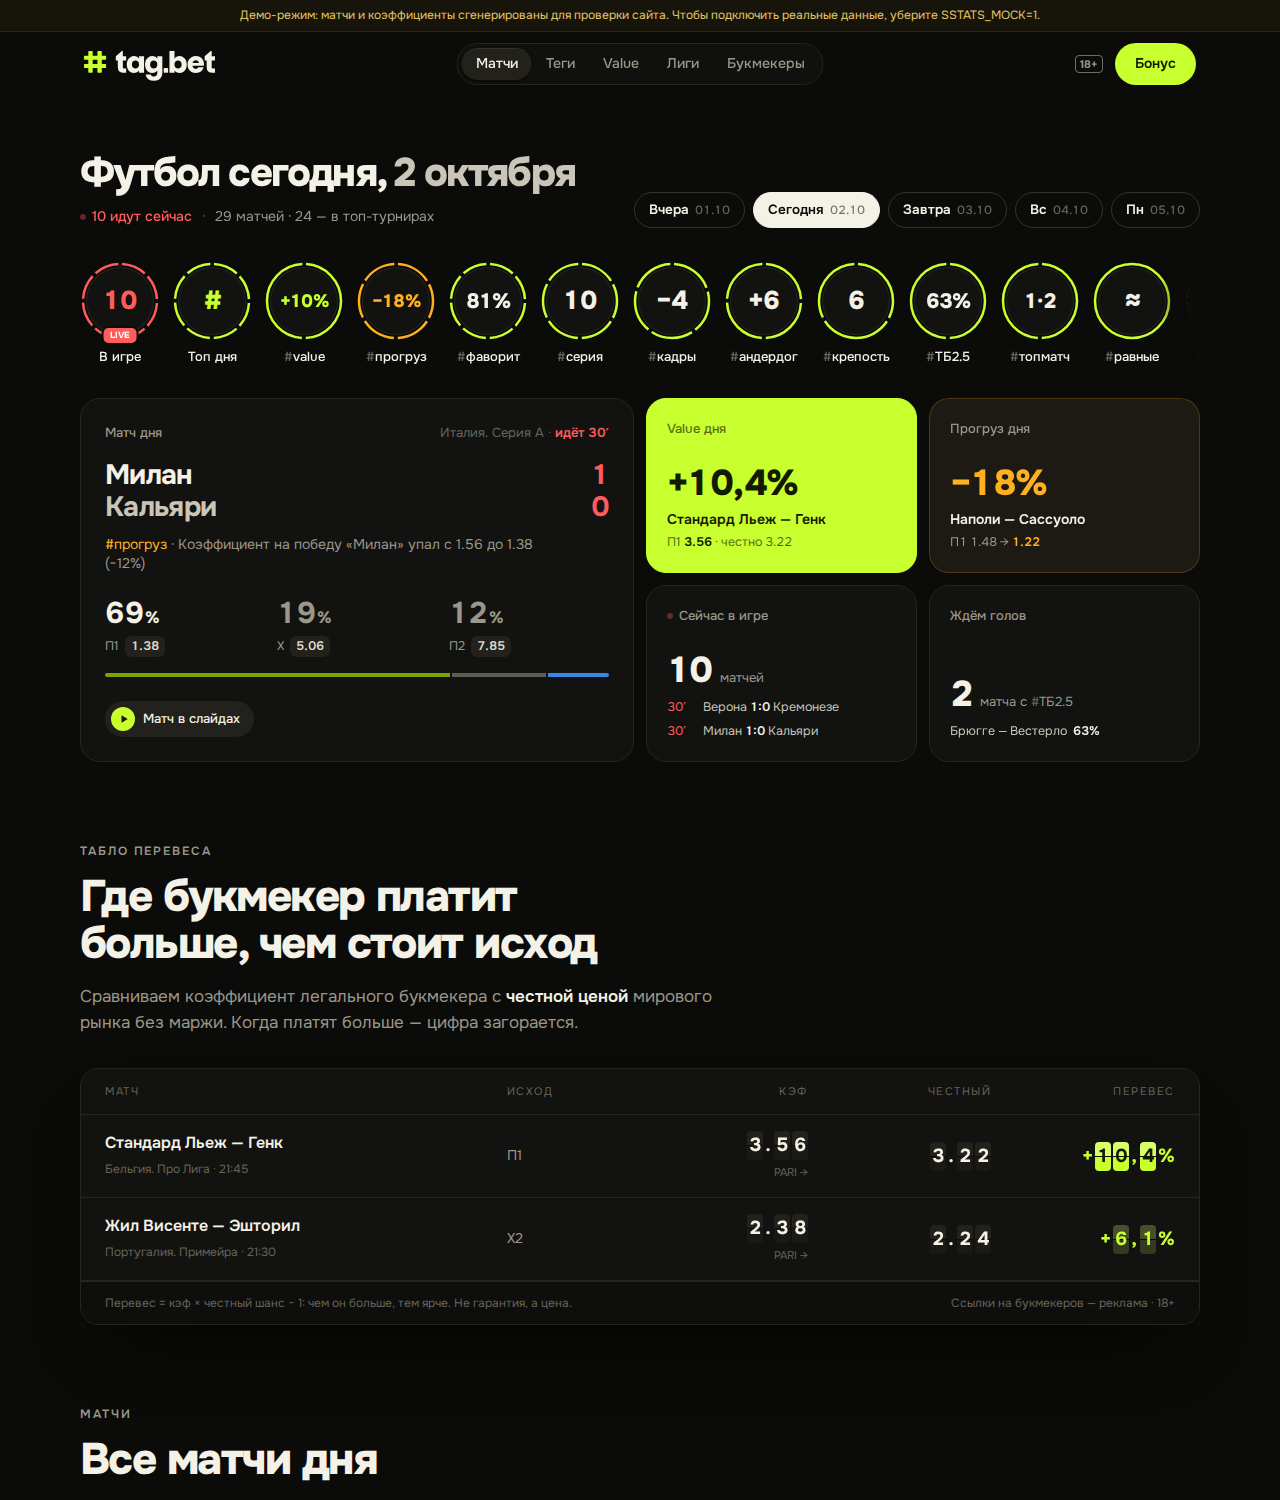
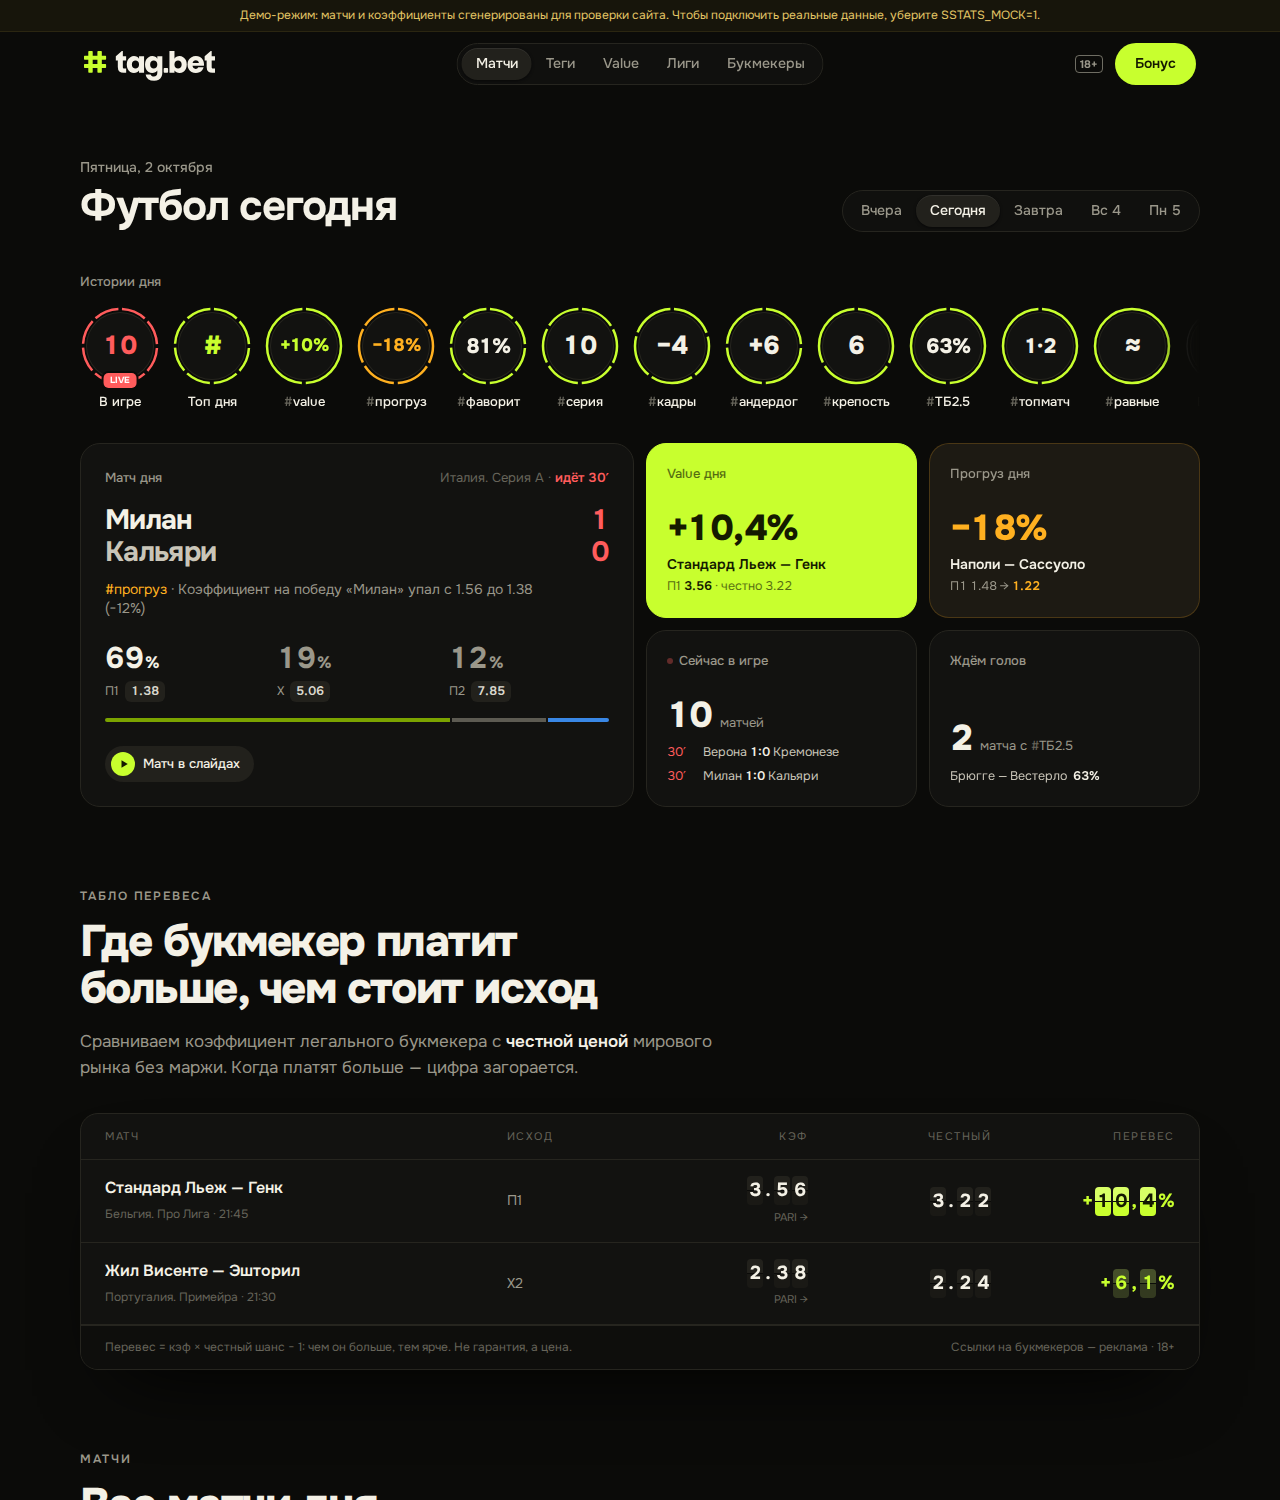
Первый экран в одном стиле: заголовок, дни-капсула, истории
- Заголовок одним цветом и без сжатых букв: «Футбол сегодня», над ним
  мелко «Пятница, 2 октября» (дата есть и в h1 — для поисковиков).
- Убрана строка «N идут сейчас · 29 матчей…» — эти цифры уже в виджетах.
- Дни — капсула в стиле меню («Вчера · Сегодня · Завтра · Вс 4»), в одну
  линию с заголовком; выбранный день чуть светлее, без белой заливки.
- Истории: подпись «Истории дня»; у просмотренных сереет только кольцо,
  цифра остаётся яркой; «Все теги» — тонкое кольцо без пунктира.

Claude-Session: https://claude.ai/code/session_01LqCxNKeCAKNwhNzoBsjYvY

diff --git a/components/DayView.tsx b/components/DayView.tsx
@@ -1,7 +1,7 @@
 import Link from 'next/link'
 import { countryRank, featuredRank } from '@/config/leagues'
 import { getMatchesByDate, tagsFor, type FeedItem } from '@/lib/data'
-import { diffDays, formatDayMonth, formatWeekdayLong, plural, pluralN, ymdToNoonTs } from '@/lib/format'
+import { diffDays, formatDayMonth, formatWeekdayLong, pluralN, weekdayWhen, ymdToNoonTs } from '@/lib/format'
 import { isLive, liveRank } from '@/lib/rank'
 import { buildDaySummary } from '@/lib/day-summary'
 import { buildStoryGroups } from '@/lib/story-groups'
@@ -25,6 +25,20 @@ export function dayTitleLines(ymd: string, today: string): [string, string] {
   if (d === 1) return ['Футбол завтра,', date]
   if (d < 0) return [`Футбол ${date}:`, 'результаты матчей']
   return [`Футбол ${date},`, formatWeekdayLong(ts)]
+}
+
+const cap = (t: string) => t.charAt(0).toUpperCase() + t.slice(1)
+
+/** Заголовок дня на странице: короткий h1 одним цветом и надпись с датой над ним. */
+export function dayHeading(ymd: string, today: string): { title: string; date: string } {
+  const d = diffDays(ymd, today)
+  const ts = ymdToNoonTs(ymd)
+  const date = `${cap(formatWeekdayLong(ts))}, ${formatDayMonth(ts)}`
+  if (d === 0) return { title: 'Футбол сегодня', date }
+  if (d === 1) return { title: 'Футбол завтра', date }
+  if (d === -1) return { title: 'Как сыграли вчера', date }
+  if (d < 0) return { title: 'Результаты матчей', date }
+  return { title: `Футбол ${weekdayWhen(ts)}`, date }
 }
 
 export function dayTitle(ymd: string, today: string) {
@@ -82,44 +96,33 @@ export async function DayView({ ymd, today }: { ymd: string; today: string }) {
   const liveAll = items.filter((i) => isLive(i.match))
   // в «Сейчас в игре» — сначала топ-лиги, потом матчи с линией; женские и молодёжные — в конец
   const liveTop = [...liveAll].sort((a, b) => liveRank(a.match) - liveRank(b.match) || a.match.ts - b.match.ts).slice(0, LIVE_LIMIT)
-  const featuredCount = featured.reduce((s, g) => s + g.items.length, 0)
 
-  const summary = matches.length
-    ? [pluralN(matches.length, ['матч', 'матча', 'матчей']), featuredCount ? `${featuredCount} — в топ-турнирах` : null].filter(Boolean).join(' · ')
-    : 'Коэффициенты, теги ставок и прогнозы на футбол'
-
-  const [line1, line2] = dayTitleLines(ymd, today)
+  const heading = dayHeading(ymd, today)
   const past = diffDays(ymd, today) < 0
 
   return (
     <>
-      <section className="flex flex-wrap items-end justify-between gap-x-8 gap-y-5 pt-6 sm:pt-8">
+      <section className="flex flex-wrap items-end justify-between gap-x-8 gap-y-5 pt-6 sm:pt-9">
         <div className="min-w-0">
-          <h1 className="display text-[30px] sm:text-[40px]">
+          <p className="fade-up text-[14px] font-medium text-dim">{heading.date}</p>
+          <h1 className="mt-1.5 text-[32px] font-bold leading-[1.08] tracking-[-0.03em] sm:text-[42px]">
             <span className="rise">
               <span>
-                {line1} <span className="text-chalk">{line2}</span>
+                {heading.title}
+                {/* дата — и в заголовке для поисковиков */}
+                <span className="sr-only">, {formatDayMonth(ymdToNoonTs(ymd))}</span>
               </span>
             </span>
           </h1>
-          <p className="fade-up mt-2.5 flex flex-wrap items-center gap-x-2.5 gap-y-1 text-[14px] text-dim" style={{ animationDelay: '150ms' }}>
-            {liveAll.length ? (
-              <a href="#live" className="inline-flex items-center gap-1.5 font-medium text-live">
-                <span className="h-1.5 w-1.5 animate-pulse-live rounded-full bg-live" />
-                {liveAll.length} {plural(liveAll.length, ['идёт', 'идут', 'идут'])} сейчас
-              </a>
-            ) : null}
-            {liveAll.length && summary ? <span className="text-mute">·</span> : null}
-            <span>{summary}</span>
-          </p>
         </div>
-        <div className="fade-up -mb-px w-full min-w-0 lg:w-auto" style={{ animationDelay: '250ms' }}>
+        <div className="fade-up w-full min-w-0 sm:w-auto" style={{ animationDelay: '150ms' }}>
           <DateTabs active={ymd} today={today} />
         </div>
       </section>
 
       {storyGroups.length ? (
-        <section aria-label="Истории дня" className="mt-7 sm:mt-8">
+        <section aria-label="Истории дня" className="mt-8 sm:mt-10">
+          <p className="mb-3 text-[13px] font-medium text-dim">Истории дня</p>
           <StoryCircles groups={storyGroups} />
         </section>
       ) : null}

diff --git a/components/DateTabs.tsx b/components/DateTabs.tsx
@@ -1,30 +1,41 @@
 import Link from 'next/link'
 import { SITE } from '@/config/site'
-import { addDays, dayLabel, formatDayShort, ymdToNoonTs } from '@/lib/format'
+import { addDays, diffDays, formatWeekday, ymdToNoonTs } from '@/lib/format'
 import { dayHref } from '@/lib/links'
 
-/** Выбор дня: «пилюли», выбранная — светлая. */
+/** Короткая подпись дня: «Вчера», «Сегодня», «Завтра», дальше — «Вс 4». */
+function shortDay(ymd: string, today: string): string {
+  const d = diffDays(ymd, today)
+  if (d === 0) return 'Сегодня'
+  if (d === 1) return 'Завтра'
+  if (d === -1) return 'Вчера'
+  const wd = formatWeekday(ymdToNoonTs(ymd)).replace('.', '')
+  return `${wd.charAt(0).toUpperCase()}${wd.slice(1)} ${Number(ymd.slice(8))}`
+}
+
+/** Выбор дня — капсула в стиле меню: выбранный день чуть светлее. */
 export function DateTabs({ active, today }: { active: string; today: string }) {
   const days = Array.from({ length: SITE.daysAhead + 2 }, (_, i) => addDays(today, i - 1))
   return (
-    <nav aria-label="Выбор дня" className="scrollbar-none -mx-5 flex gap-2 overflow-x-auto px-5 sm:mx-0 sm:px-0">
-      {days.map((d) => {
-        const on = d === active
-        return (
-          <Link
-            key={d}
-            href={dayHref(d, today)}
-            prefetch={false}
-            aria-current={on ? 'page' : undefined}
-            className={`inline-flex h-9 shrink-0 items-center gap-1.5 rounded-full border px-3.5 text-[13.5px] font-semibold capitalize transition-colors ${
-              on ? 'border-fg bg-fg text-ink' : 'border-edge-2 text-fg hover:bg-white/[0.04]'
-            }`}
-          >
-            {dayLabel(d, today).split(',')[0]}
-            <span className={`num text-[12px] font-medium ${on ? 'text-ink/55' : 'text-mute'}`}>{formatDayShort(ymdToNoonTs(d))}</span>
-          </Link>
-        )
-      })}
+    <nav aria-label="Выбор дня" className="scrollbar-none -mx-5 overflow-x-auto px-5 sm:mx-0 sm:px-0">
+      <div className="flex w-max items-center rounded-full border border-edge bg-panel/80 p-1">
+        {days.map((d) => {
+          const on = d === active
+          return (
+            <Link
+              key={d}
+              href={dayHref(d, today)}
+              prefetch={false}
+              aria-current={on ? 'page' : undefined}
+              className={`inline-flex h-8 shrink-0 items-center rounded-full px-3.5 text-[14px] font-medium transition-colors ${
+                on ? 'bg-panel-3 text-fg shadow-[inset_0_1px_0_rgb(255_255_255/0.07),0_1px_3px_rgb(0_0_0/0.5)]' : 'text-dim hover:text-fg'
+              }`}
+            >
+              {shortDay(d, today)}
+            </Link>
+          )
+        })}
+      </div>
     </nav>
   )
 }

diff --git a/components/story/StoryCircles.tsx b/components/story/StoryCircles.tsx
@@ -37,7 +37,7 @@ function Ring({ kind, seen }: { kind: CircleKind; seen: boolean[] }) {
 }
 
 function Caption({ g, dim }: { g: StoryGroup; dim: boolean }) {
-  const text = dim ? 'text-mute' : 'text-fg'
+  const text = dim ? 'text-dim' : 'text-fg'
   if (g.label.startsWith('#')) {
     return (
       <span className={`block truncate ${text}`}>
@@ -112,7 +112,7 @@ export function StoryCircles({ groups }: { groups: StoryGroup[] }) {
             <span className="relative block transition-transform duration-300 group-hover:-translate-y-0.5 group-active:scale-95" style={{ width: SIZE, height: SIZE }}>
               <Ring kind={g.kind} seen={marks} />
               <span
-                className={`absolute inset-[6px] flex items-center justify-center rounded-full bg-panel ring-1 ring-inset ring-edge ${done ? 'opacity-50' : ''}`}
+                className="absolute inset-[6px] flex items-center justify-center rounded-full bg-panel ring-1 ring-inset ring-edge"
               >
                 <span className={`num font-extrabold tracking-[-0.04em] ${statSize(g.stat)} ${statColor(g.kind)}`}>{g.stat}</span>
               </span>
@@ -132,7 +132,7 @@ export function StoryCircles({ groups }: { groups: StoryGroup[] }) {
       <Link href="/tags" prefetch={false} className="group flex w-[80px] shrink-0 flex-col items-center rounded-xl" title="Все теги и что они значат">
         <span className="relative block transition-transform duration-300 group-hover:-translate-y-0.5" style={{ width: SIZE, height: SIZE }}>
           <svg viewBox={`0 0 ${SIZE} ${SIZE}`} className="absolute inset-0 h-full w-full" aria-hidden>
-            <circle cx={SIZE / 2} cy={SIZE / 2} r={R} fill="none" stroke="rgb(255 255 255 / 0.16)" strokeWidth="1.5" strokeDasharray="3 4" />
+            <circle cx={SIZE / 2} cy={SIZE / 2} r={R} fill="none" stroke="rgb(255 255 255 / 0.16)" strokeWidth="1.5" />
           </svg>
           <span className="absolute inset-[6px] flex items-center justify-center rounded-full bg-panel ring-1 ring-inset ring-edge">
             <LogoMark size={24} />
